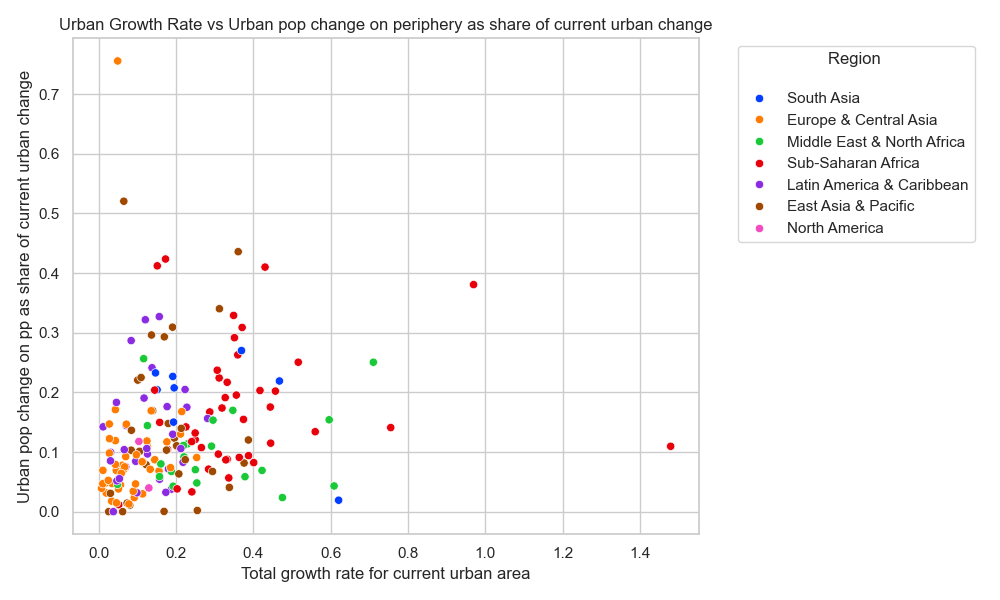
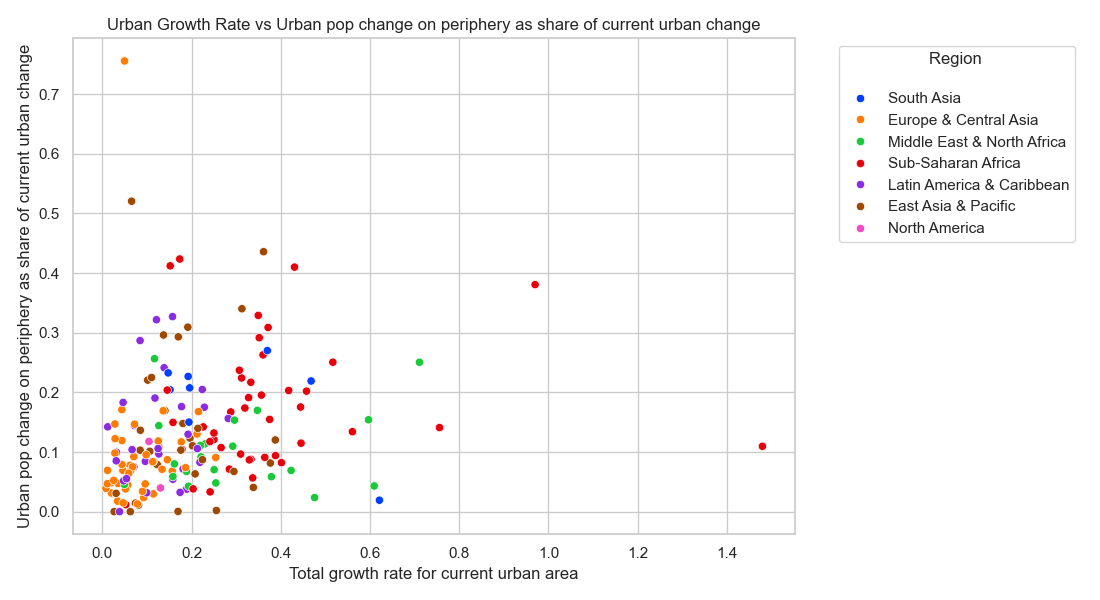
Fixed bugs

diff --git a/plots.py b/plots.py
@@ -29,10 +29,10 @@ dt["urbanGrowthRate"] = dt["UrbpopChange"]/dt["UrbanPopulation2010"]
 dt["shOfPopUrban2010"] = dt["UrbanPopulation2010"]/dt["Population2010"]
 
 # Plot 1 Urban Growth Rate vs Share of Urban Population on Periphery
-plt.figure(figsize=(10, 6))
+plt.figure(figsize=(11, 6))
 sns.scatterplot(data=dt, x="urbanGrowthRate", y="shOfUrbanPopinPeri", hue="Region", palette="bright")
 plt.xlabel("Urban Growth Rate")
-plt.ylabel("Share of Population Population on the Periphery")
+plt.ylabel("Share of Urban Population on the Periphery")
 plt.title("Urban Growth Rate vs Share of Urban Population on Periphery 2010/2020")
 plt.legend(bbox_to_anchor=(1.05, 1.0), loc='upper left', title="Region \n")
 plt.tight_layout()
@@ -42,10 +42,10 @@ plt.savefig(results1 + r"\Urban Growth Rate vs Share of Urban Population on Peri
 # -----------------------------------------
 
 # Plot 2 Urban Share in 2010 vs Share of Urban Population on Periphery
-plt.figure(figsize=(10, 6))
+plt.figure(figsize=(11, 6))
 sns.scatterplot(data=dt, x="shOfPopUrban2010", y="shOfUrbanPopinPeri", hue="Region", palette="bright")
 plt.xlabel("Urban Population Share in 2010")
-plt.ylabel("Share of Population Population on the Periphery")
+plt.ylabel("Share of Urban Population on the Periphery")
 plt.title("Urban Population Share in 2010 vs Share of Urban Population on Periphery")
 plt.legend(bbox_to_anchor=(1.05, 1.0), loc='upper left', title="Region \n")
 plt.tight_layout()
@@ -55,7 +55,7 @@ plt.savefig(results1 + r"\Urban Share in 2010 vs Share of Urban Population on Pe
 # --------------------------------------------
 
 # Plot 3  Urban Growth Rate vs Share of Urban Population on Periphery
-plt.figure(figsize=(10, 6))
+plt.figure(figsize=(11, 6))
 
 sns.scatterplot(data=dt, y="urbanGrowthRate", x="shOfPopUrban2010", hue="Region", palette="bright")
 plt.xlabel("Urban Population Share in 2010")
@@ -76,11 +76,11 @@ plt.savefig(results1 + r"\Urban Growth Rate vs Urban Population Share in 2010.pn
 y_axis = (dt["c2UrbanPopChange_2010-2020"])/(dt["c2UrbanPopChange_2010-2020"] + dt["c3UrbanPopChange_2010-2020"])
 pop2010_urban2020 = dt["UrbanPopulation2020"] - dt["c2UrbanPopChange_2010-2020"] - dt["c3UrbanPopChange_2010-2020"]
 x_axis = (dt["c2UrbanPopChange_2010-2020"] + dt["c3UrbanPopChange_2010-2020"])/pop2010_urban2020
-plt.figure(figsize=(10, 6))
+plt.figure(figsize=(11, 6))
 
 sns.scatterplot(data=dt, y=y_axis, x=x_axis, hue="Region", palette="bright")
 plt.xlabel("Total growth rate for current urban area")
-plt.ylabel("Urban pop change on pp as share of current urban change")
+plt.ylabel("Urban pop change on periphery as share of current urban change")
 plt.title("Urban Growth Rate vs Urban pop change on periphery as share of current urban change")
 plt.legend(bbox_to_anchor=(1.05, 1.0), loc='upper left', title="Region \n")
 plt.tight_layout()
@@ -90,11 +90,11 @@ plt.savefig(results1 + r"\Urban Growth Rate vs Urban pop change on pp as share o
 # ------------------------------------------------
 # Plot 5  Share of population that is urban 2010 vs Urban pop change on pp as share of current urban change
 x_axis = dt["UrbanPopulation2010"]/dt["Population2010"]
-plt.figure(figsize=(10, 6))
+plt.figure(figsize=(11, 6))
 
 sns.scatterplot(data=dt, y=y_axis, x=x_axis, hue="Region", palette="bright")
 plt.xlabel("Share of population that is urban 2010")
-plt.ylabel("Urban pop change on pp as share of current urban change")
+plt.ylabel("Urban pop change on periphery as share of current urban change")
 plt.title("Share of population that is urban 2010 vs Urban pop change on periphery as share of current urban change")
 plt.legend(bbox_to_anchor=(1.05, 1.0), loc='upper left', title="Region \n")
 plt.tight_layout()
@@ -107,7 +107,7 @@ plt.savefig(results1 + r"\Share of population that is urban 2010 vs Urban pop ch
 dt["urbanPopChange"] = dt["UrbanPopulation2020"] - dt["UrbanPopulation2010"]
 y_axis =  dt["urbanPopChange"]/dt["UrbanPopulation2010"] 
 x_axis = dt["UrbanPopulation2010"]/dt["Population2010"]
-plt.figure(figsize=(10, 6))
+plt.figure(figsize=(11, 6))
 
 sns.scatterplot(data=dt, y=y_axis, x=x_axis, hue="Region", palette="bright")
 plt.xlabel("Share of population that is urban 2010")
@@ -140,7 +140,7 @@ dt["shOfPopUrban2010"] = dt["UrbanPopulation2010"]/dt["Population2010"]
 # ----------------------------------------------
 
 # Plot 1 Urban Growth Rate vs Share of Urban Population on Periphery
-plt.figure(figsize=(10, 6))
+plt.figure(figsize=(11, 6))
 sns.scatterplot(data=dt, x="urbanGrowthRate", y="shOfUrbanPopinPeri", hue="Region", palette="bright")
 plt.xlabel("Urban Growth Rate")
 plt.ylabel("Share of Urban Population on the Periphery")
@@ -153,7 +153,7 @@ plt.savefig(results2 + r"\Urban Growth Rate vs Share of Urban Population on Peri
 # -----------------------------------------
 
 # Plot 2 Urban Share in 2010 vs Share of Urban Population on Periphery
-plt.figure(figsize=(10, 6))
+plt.figure(figsize=(11, 6))
 sns.scatterplot(data=dt, x="shOfPopUrban2010", y="shOfUrbanPopinPeri", hue="Region", palette="bright")
 plt.xlabel("Urban Population Share in 2010")
 plt.ylabel("Share of Urban Population on the Periphery")
@@ -166,7 +166,7 @@ plt.savefig(results2 + r"\Urban Share in 2010 vs Share of Urban Population on Pe
 # --------------------------------------------
 
 # Plot 3  Urban Growth Rate vs Share of Urban Population on Periphery
-plt.figure(figsize=(10, 6))
+plt.figure(figsize=(11, 6))
 
 sns.scatterplot(data=dt, y="urbanGrowthRate", x="shOfPopUrban2010", hue="Region", palette="bright")
 plt.xlabel("Urban Population Share in 2010")
@@ -187,11 +187,11 @@ plt.savefig(results2 + r"\Urban Growth Rate vs Urban Population Share in 2010.pn
 y_axis = (dt["c2UrbanPopChange_2010-2020"])/(dt["c2UrbanPopChange_2010-2020"] + dt["c3UrbanPopChange_2010-2020"])
 pop2010_urban2020 = dt["UrbanPopulation2020"] - dt["c2UrbanPopChange_2010-2020"] - dt["c3UrbanPopChange_2010-2020"]
 x_axis = (dt["c2UrbanPopChange_2010-2020"] + dt["c3UrbanPopChange_2010-2020"])/pop2010_urban2020
-plt.figure(figsize=(10, 6))
+plt.figure(figsize=(11, 6))
 
 sns.scatterplot(data=dt, y=y_axis, x=x_axis, hue="Region", palette="bright")
 plt.xlabel("Total growth rate for current urban area")
-plt.ylabel("Urban pop change on pp as share of current urban change")
+plt.ylabel("Urban pop change on periphery as share of current urban change")
 plt.title("Urban Growth Rate vs Urban pop change on periphery as share of current urban change")
 plt.legend(bbox_to_anchor=(1.05, 1.0), loc='upper left', title="Region \n")
 plt.tight_layout()
@@ -202,11 +202,11 @@ plt.savefig(results2 + r"\Urban Growth Rate vs Urban pop change on pp as share o
 
 # Plot 5  Share of population that is urban 2010 vs Urban pop change on pp as share of current urban change
 x_axis = dt["UrbanPopulation2010"]/dt["Population2010"]
-plt.figure(figsize=(10, 6))
+plt.figure(figsize=(11, 6))
 
 sns.scatterplot(data=dt, y=y_axis, x=x_axis, hue="Region", palette="bright")
 plt.xlabel("Share of population that is urban 2010")
-plt.ylabel("Urban pop change on pp as share of current urban change")
+plt.ylabel("Urban pop change on periphery as share of current urban change")
 plt.title("Share of population that is urban in 2010 vs Urban pop change on periphery as share of current urban change")
 plt.legend(bbox_to_anchor=(1.05, 1.0), loc='upper left', title="Region \n")
 plt.tight_layout()
@@ -220,7 +220,7 @@ plt.savefig(results2 + r"\Share of population that is urban 2010 vs Urban pop ch
 dt["urbanPopChange"] = dt["UrbanPopulation2020"] - dt["UrbanPopulation2010"]
 y_axis =  dt["urbanPopChange"]/dt["UrbanPopulation2010"] 
 x_axis = dt["UrbanPopulation2010"]/dt["Population2010"]
-plt.figure(figsize=(10, 6))
+plt.figure(figsize=(11, 6))
 
 sns.scatterplot(data=dt, y=y_axis, x=x_axis, hue="Region", palette="bright")
 plt.xlabel("Share of population that is urban 2010")
